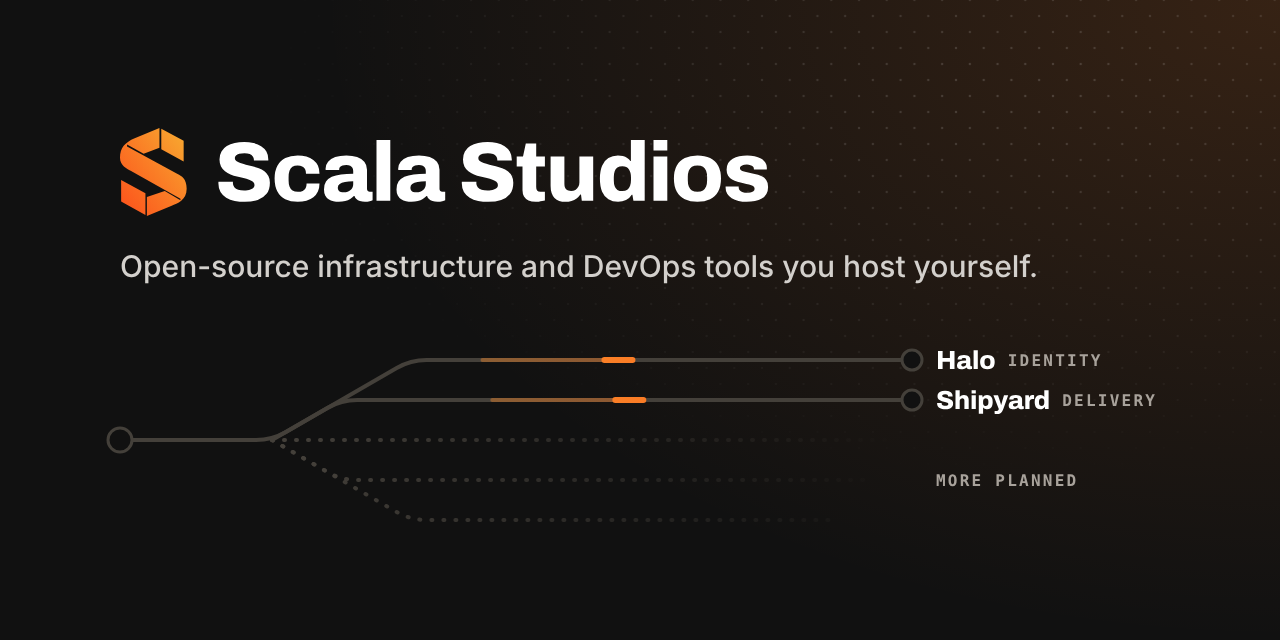
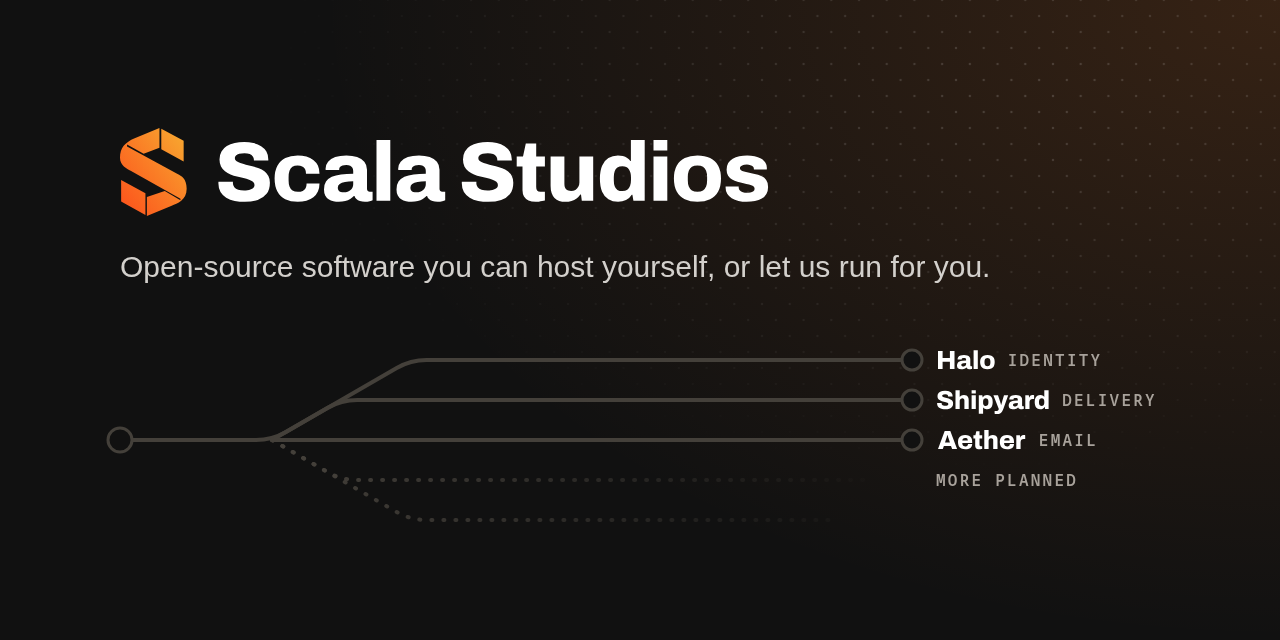
feat: add aether to the organization profile and widen the tagline to hosted software

Changed region(s): [[0.0938, 0.375, 0.8125, 0.4375], [0.6875, 0.6562, 0.8438, 0.7188], [0.4688, 0.5312, 0.5, 0.6562]]

diff --git a/profile/README.md b/profile/README.md
@@ -3,12 +3,12 @@
   <a href="https://scala.gg">
     <picture>
       <source media="(prefers-color-scheme: dark)" srcset="/assets/profile/hero-dark.svg">
-      <img src="/assets/profile/hero-light.svg" width="100%" alt="Scala Studios: open-source infrastructure and DevOps tools you host yourself. Lines run out of one hub to Halo, for identity, and Shipyard, for delivery, with more lines planned.">
+      <img src="/assets/profile/hero-light.svg" width="100%" alt="Scala Studios: open-source software you can host yourself, or let us run for you. Lines run out of one hub to Halo, for identity, Shipyard, for delivery, and Aether, for email, with more lines planned.">
     </picture>
   </a>
 </p>
 
-Scala Studios makes open-source, self-hosted tools for the teams that run infrastructure, and develops them in public. **[Halo](https://github.com/ScalaStudios/Halo)** decides who can sign in to which applications, and for how long. **[Shipyard](https://github.com/ScalaStudios/Shipyard)** takes a commit through pipelines, registries and releases to a running deployment. Both are written in Go and keep their state in PostgreSQL. More projects for infrastructure and operations are planned.
+Scala Studios builds open-source software for running a team's systems, and develops it in public. Every project can be hosted on your own infrastructure in full, and we also run our software as a service for teams that would rather not run it themselves. **[Halo](https://github.com/ScalaStudios/Halo)** decides who can sign in to which applications, and for how long. **[Shipyard](https://github.com/ScalaStudios/Shipyard)** takes a commit through pipelines, registries and releases to a running deployment. **[Aether](https://github.com/ScalaStudios/Aether)** runs a team's email, calendar and contacts. All three are written in Go and keep their state in PostgreSQL. More projects are planned.
 
 <!-- Calls to action. Secondary buttons have light and dark variants. -->
 <p>
@@ -81,6 +81,38 @@ Shipyard is alpha. It runs real pipelines against real forges, and the schema an
 
 **[Repository](https://github.com/ScalaStudios/Shipyard)** · **[Try the demo](https://github.com/ScalaStudios/Shipyard#try-the-demo)** · **[Deployment guide](https://github.com/ScalaStudios/Shipyard/blob/master/docs/DEPLOY.md)** · **[API and MCP](https://github.com/ScalaStudios/Shipyard/blob/master/docs/mcp.md)**
 
+<br>
+
+<p>
+  <a href="https://github.com/ScalaStudios/Aether">
+    <picture>
+      <source media="(prefers-color-scheme: dark)" srcset="/assets/profile/aether-dark.svg">
+      <img src="/assets/profile/aether-light.svg" width="100%" alt="Aether, email, calendar and contacts: a message from a sender passes Postfix and Rspamd, SPF, DKIM and DMARC are checked, Dovecot stores it, and it reaches the inbox.">
+    </picture>
+  </a>
+</p>
+
+[![CI](https://img.shields.io/github/actions/workflow/status/ScalaStudios/Aether/ci.yml?branch=main&style=flat&label=ci&labelColor=2a2724)](https://github.com/ScalaStudios/Aether/actions/workflows/ci.yml)
+[![Status: pre-release](https://img.shields.io/badge/status-pre--release-fa7e26?style=flat&labelColor=2a2724)](https://github.com/ScalaStudios/Aether#known-limitations)
+[![License: AGPL-3.0-or-later](https://img.shields.io/badge/license-AGPL--3.0--or--later-57534d?style=flat&labelColor=2a2724)](https://github.com/ScalaStudios/Aether/blob/main/LICENSE)
+
+**Self-hosted email, calendar and contacts.** Aether runs a complete mail server, webmail and CalDAV and CardDAV from one Docker Compose file, and people sign in with a local account, Halo or any OpenID Connect provider.
+
+- **A proven mail stack.** Postfix for SMTP, Dovecot for IMAP and Rspamd for spam filtering and DKIM, configured from PostgreSQL by a Go control plane instead of hand-edited files.
+- **Its own webmail.** Aether Mail has conversations, search, rich-text compose with signatures, rules, scheduled send and shared mailboxes.
+- **Deliverability built in.** Every domain gets its DNS records with a live check, MTA-STS, TLS reporting and summarized DMARC reports.
+- **Calendar and contacts.** Shared calendars, meeting invitations that work with Gmail, Outlook and Apple Calendar, and free/busy while you schedule.
+- **Single sign-on in the core.** OpenID Connect sign-in with group-to-role mapping, and app passwords scoped to one mailbox for mail and calendar apps.
+
+```bash
+git clone https://github.com/ScalaStudios/Aether.git && cd Aether
+./scripts/setup.sh dev && docker compose up -d --build
+```
+
+Aether is pre-release and has no version tags yet, so the API and configuration may change before 1.0. It runs Scala Studios' own mail.
+
+**[Repository](https://github.com/ScalaStudios/Aether)** · **[Installation guide](https://github.com/ScalaStudios/Aether/blob/main/documentation/installation.md)** · **[Authentication](https://github.com/ScalaStudios/Aether/blob/main/documentation/authentication.md)** · **[Architecture](https://github.com/ScalaStudios/Aether/blob/main/documentation/architecture.md)**
+
 ## How we build
 
 <table>
@@ -88,11 +120,11 @@ Shipyard is alpha. It runs real pipelines against real forges, and the schema an
     <tr>
       <td width="50%" valign="top">
         <b>Self-hosted, all of it</b><br>
-        Every Halo feature is in its open-source repository, and self-hosting is meant to stay complete, with no paid tier for core features. Shipyard has no per-seat pricing and no SaaS dependency.
+        Every Halo feature is in its open-source repository, and self-hosting is meant to stay complete, with no paid tier for core features. Shipyard has no per-seat pricing and no SaaS dependency, and Aether has no paid tier, no telemetry and no license key.
       </td>
       <td width="50%" valign="top">
         <b>Standards at the edges</b><br>
-        Halo speaks OpenID Connect, SAML 2.0, SCIM 2.0 and WebAuthn. Shipyard serves the OCI distribution API and npm and Maven repositories, so <code>docker push</code> works against it.
+        Halo speaks OpenID Connect, SAML 2.0, SCIM 2.0 and WebAuthn. Shipyard serves the OCI distribution API and npm and Maven repositories, so <code>docker push</code> works against it. Aether speaks SMTP, IMAP, CalDAV and CardDAV, and signs mail with DKIM.
       </td>
     </tr>
   </tbody>
@@ -100,42 +132,42 @@ Shipyard is alpha. It runs real pipelines against real forges, and the schema an
     <tr>
       <td width="50%" valign="top">
         <b>Secrets stay sealed</b><br>
-        Halo keeps session tokens, client secrets and API keys only as SHA-256 hashes and seals signing keys with AES-256-GCM. Shipyard encrypts forge credentials and webhook secrets at rest.
+        Halo keeps session tokens, client secrets and API keys only as SHA-256 hashes and seals signing keys with AES-256-GCM. Shipyard encrypts forge credentials and webhook secrets at rest. Aether encrypts DKIM keys and OIDC client secrets with AES-256-GCM.
       </td>
       <td width="50%" valign="top">
         <b>Built to be automated</b><br>
-        Both publish an OpenAPI 3.1 description of their API. Halo issues API keys to service accounts, and Shipyard ships an MCP server that lets AI agents drive builds and runners.
+        All three publish an OpenAPI 3.1 description of their API. Halo issues API keys to service accounts, Shipyard ships an MCP server that lets AI agents drive builds and runners, and Aether sends signed webhooks for every audit event.
       </td>
     </tr>
   </tbody>
 </table>
 
-| | Halo | Shipyard |
-| --- | --- | --- |
-| **Server** | Go | Go |
-| **Interface** | Next.js, React, Tailwind CSS | React, Vite, CSS Modules |
-| **Data** | PostgreSQL, optional S3-compatible storage | PostgreSQL, filesystem or S3-compatible storage |
-| **Runs on** | Docker Compose and Caddy, images for amd64 and arm64 | Docker Compose with Caddy or nginx, BuildKit for images |
-| **Protocols** | OpenID Connect, OAuth 2.0, SAML 2.0, SCIM 2.0, WebAuthn | OCI Distribution, npm, Maven, MCP |
-| **Tests** | Go tests against PostgreSQL, Playwright end-to-end tests | Go tests, an API smoke test |
-| **CI** | GitHub Actions | GitHub Actions |
+| | Halo | Shipyard | Aether |
+| --- | --- | --- | --- |
+| **Server** | Go | Go | Go |
+| **Interface** | Next.js, React, Tailwind CSS | React, Vite, CSS Modules | Next.js, React, Tailwind CSS |
+| **Data** | PostgreSQL, optional S3-compatible storage | PostgreSQL, filesystem or S3-compatible storage | PostgreSQL, Valkey, mail in Maildir |
+| **Runs on** | Docker Compose and Caddy, images for amd64 and arm64 | Docker Compose with Caddy or nginx, BuildKit for images | Docker Compose and Caddy, with Postfix, Dovecot and Rspamd |
+| **Protocols** | OpenID Connect, OAuth 2.0, SAML 2.0, SCIM 2.0, WebAuthn | OCI Distribution, npm, Maven, MCP | SMTP, IMAP, CalDAV, CardDAV, OpenID Connect |
+| **Tests** | Go tests against PostgreSQL, Playwright end-to-end tests | Go tests, an API smoke test | Go tests, integration tests against the running mail stack |
+| **CI** | GitHub Actions | GitHub Actions | GitHub Actions |
 
 ## Contribute
 
-Both projects take issues and pull requests. A typo or a bug with an obvious cause can go straight to a pull request; for anything larger, open an issue first so the approach is agreed before the code is written. Halo's [code of conduct](https://github.com/ScalaStudios/Halo/blob/main/CODE_OF_CONDUCT.md) applies to everyone taking part in that project.
+All three projects take issues and pull requests. A typo or a bug with an obvious cause can go straight to a pull request; for anything larger, open an issue first so the approach is agreed before the code is written. Halo's [code of conduct](https://github.com/ScalaStudios/Halo/blob/main/CODE_OF_CONDUCT.md) applies to everyone taking part in that project.
 
-| | Halo | Shipyard |
-| --- | --- | --- |
-| **Bugs and ideas** | [Open an issue](https://github.com/ScalaStudios/Halo/issues/new/choose) | [Open an issue](https://github.com/ScalaStudios/Shipyard/issues/new) |
-| **Local setup** | [Contributing guide](https://github.com/ScalaStudios/Halo/blob/main/CONTRIBUTING.md) | [Development](https://github.com/ScalaStudios/Shipyard#development) |
-| **Before review** | `go vet`, `go test`, type check and web build | `go test ./...` and the UI build |
+| | Halo | Shipyard | Aether |
+| --- | --- | --- | --- |
+| **Bugs and ideas** | [Open an issue](https://github.com/ScalaStudios/Halo/issues/new/choose) | [Open an issue](https://github.com/ScalaStudios/Shipyard/issues/new) | [Open an issue](https://github.com/ScalaStudios/Aether/issues/new) |
+| **Local setup** | [Contributing guide](https://github.com/ScalaStudios/Halo/blob/main/CONTRIBUTING.md) | [Development](https://github.com/ScalaStudios/Shipyard#development) | [Contributing guide](https://github.com/ScalaStudios/Aether/blob/main/CONTRIBUTING.md) |
+| **Before review** | `go vet`, `go test`, type check and web build | `go test ./...` and the UI build | `gofmt`, `go vet`, `go test`, the integration tests, web lint and build |
 
 ## Security
 
 > [!WARNING]
 > Report vulnerabilities privately, never in a public issue, pull request or discussion.
 
-Halo takes reports through [GitHub private vulnerability reporting](https://github.com/ScalaStudios/Halo/security/advisories/new), with a target of acknowledging each one within three working days; [SECURITY.md](https://github.com/ScalaStudios/Halo/blob/main/SECURITY.md) lists the rest of the response targets. For Shipyard, report the problem privately to the maintainers and leave time for a fix before disclosure, as its [security note](https://github.com/ScalaStudios/Shipyard#security) asks. Every other repository follows the [organization policy](https://github.com/ScalaStudios/.github/blob/main/SECURITY.md).
+Halo takes reports through [GitHub private vulnerability reporting](https://github.com/ScalaStudios/Halo/security/advisories/new), with a target of acknowledging each one within three working days; [SECURITY.md](https://github.com/ScalaStudios/Halo/blob/main/SECURITY.md) lists the rest of the response targets. Aether takes reports the same way, through its own [private vulnerability reporting](https://github.com/ScalaStudios/Aether/security/advisories/new), as its [SECURITY.md](https://github.com/ScalaStudios/Aether/blob/main/SECURITY.md) describes. For Shipyard, report the problem privately to the maintainers and leave time for a fix before disclosure, as its [security note](https://github.com/ScalaStudios/Shipyard#security) asks. Every other repository follows the [organization policy](https://github.com/ScalaStudios/.github/blob/main/SECURITY.md).
 
 <!-- Footer -->
 <br>
@@ -143,5 +175,5 @@ Halo takes reports through [GitHub private vulnerability reporting](https://gith
 <a href="https://scala.gg"><img src="/assets/profile/divider.svg" width="100%" alt="Scala Studios"></a>
 
 <p align="center">
-  <a href="https://scala.gg">scala.gg</a> &nbsp;·&nbsp; <a href="https://halo.scala.gg">halo.scala.gg</a> &nbsp;·&nbsp; <a href="https://github.com/ScalaStudios/Halo">Halo</a> &nbsp;·&nbsp; <a href="https://github.com/ScalaStudios/Shipyard">Shipyard</a>
+  <a href="https://scala.gg">scala.gg</a> &nbsp;·&nbsp; <a href="https://halo.scala.gg">halo.scala.gg</a> &nbsp;·&nbsp; <a href="https://github.com/ScalaStudios/Halo">Halo</a> &nbsp;·&nbsp; <a href="https://github.com/ScalaStudios/Shipyard">Shipyard</a> &nbsp;·&nbsp; <a href="https://github.com/ScalaStudios/Aether">Aether</a>
 </p>
